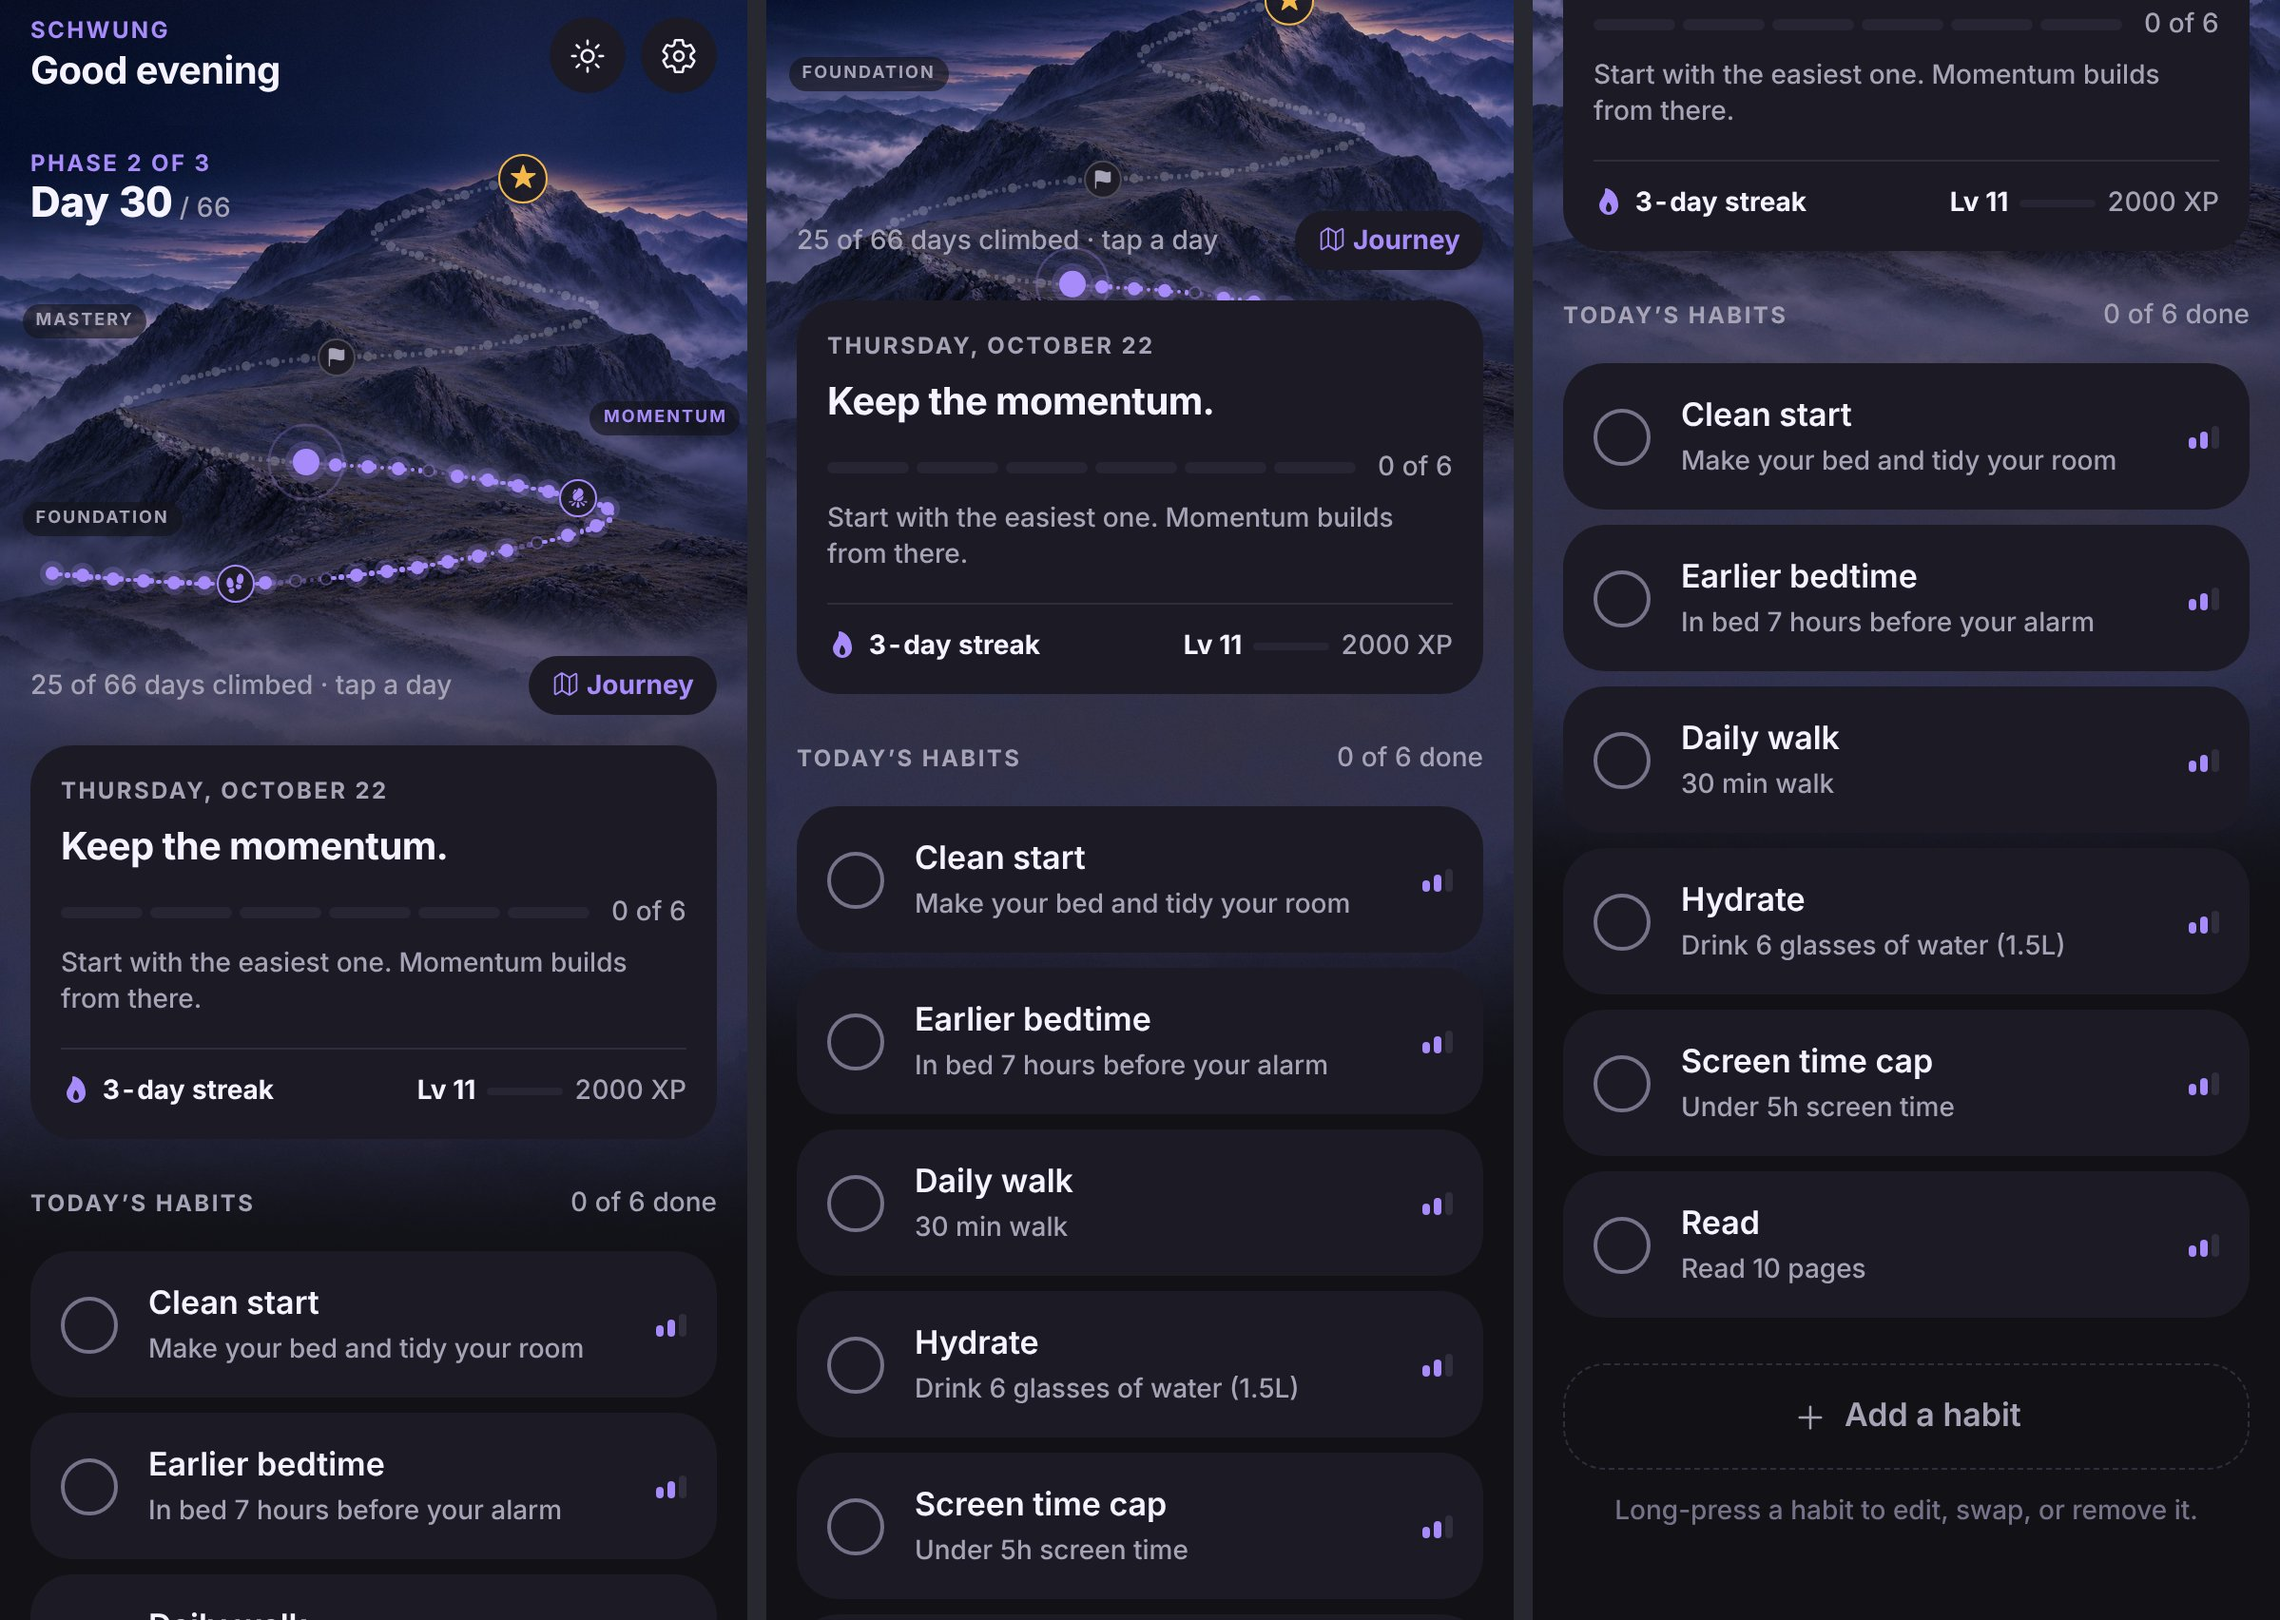
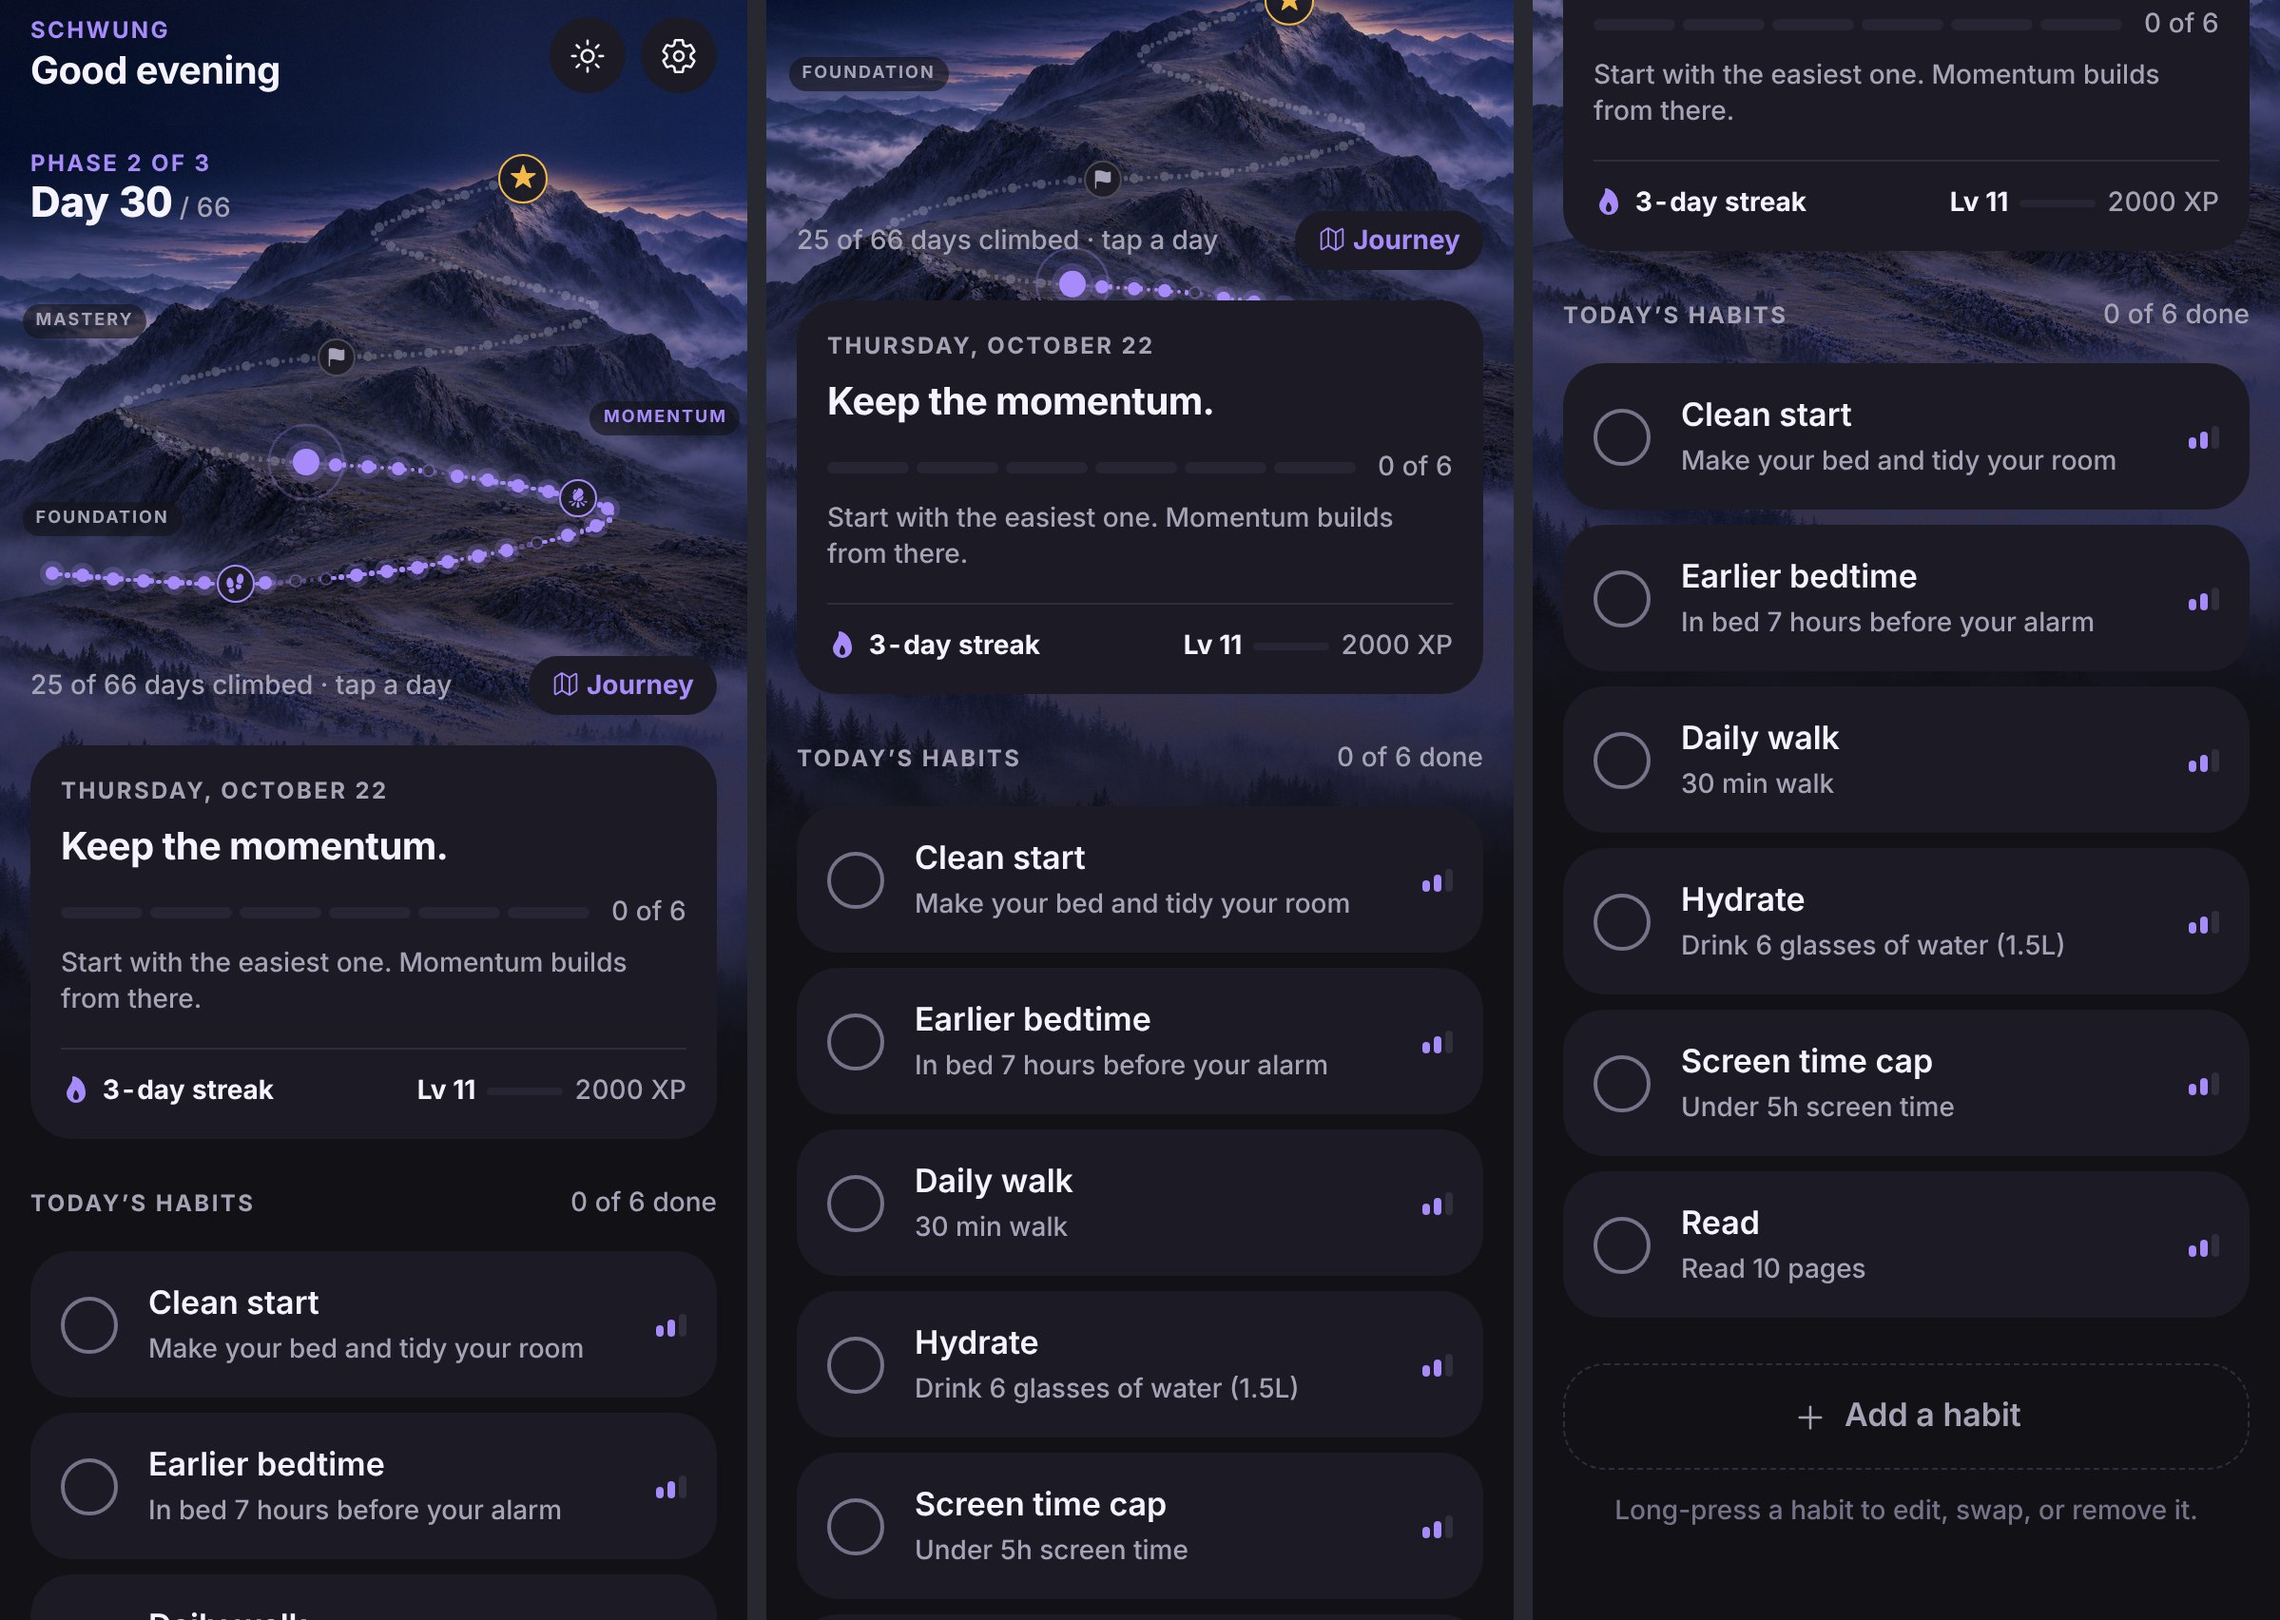
Add L1 dark v3 (slopes into pine forest), canvas previews and the piece 2 reference
Claude-Session: https://claude.ai/code/session_01TpqLTggzL92uJWvftw7JkZ

diff --git a/design/canvas/assemble_canvas.py b/design/canvas/assemble_canvas.py
@@ -5,7 +5,9 @@ Assembles the One Continuous Ascent canvas (1536 x 5120):
                   colour-matched to the painting's edge), with its soft mist band stretched taller
   then            a fade into the exact app background, which fills the rest
 
-    python3 design/canvas/assemble_canvas.py <world.jpg> <continuation> <out.png> [dark|light]
+    python3 design/canvas/assemble_canvas.py <world.jpg> <continuation> <out.png> [dark|light] [stretch]
+
+stretch (default 1 = off) lengthens the continuation's rows 300-800; only for soft mist, never for detail.
 """
 
 import sys
@@ -18,7 +20,7 @@ theme = sys.argv[4] if len(sys.argv) > 4 else 'dark'
 W, H = 1536, 5120
 PAINT_END = 1824  # last row of the painting inside the world image
 OVERLAP = 80  # rows of crossfade, below the lowest trail markers (painting rows 944-1024)
-STRETCH = (300, 800, 1.8)  # continuation rows a..b (soft mist) stretched by this factor
+STRETCH = (300, 800, float(sys.argv[5]) if len(sys.argv) > 5 else 1.0)  # rows a..b (soft mist only) x factor
 BG = np.array([17, 17, 22] if theme == 'dark' else [247, 246, 251], np.float32)
 MIST_MAX = 0.20 if theme == 'dark' else 0.86  # brightest the mist may be (dark) / darkest (light)
 rng = np.random.default_rng(5)
@@ -41,8 +43,9 @@ cont = cont + offset * ease
 
 # 2. Stretch the soft mist band (no detail there, so the stretch can't show).
 a, b, f = STRETCH
-mid = Image.fromarray(cont[a:b].clip(0, 255).astype(np.uint8)).resize((W, round((b - a) * f)), Image.BICUBIC)
-cont = np.concatenate([cont[:a], np.asarray(mid).astype(np.float32), cont[b:]])
+if f != 1.0:
+    mid = Image.fromarray(cont[a:b].clip(0, 255).astype(np.uint8)).resize((W, round((b - a) * f)), Image.BICUBIC)
+    cont = np.concatenate([cont[:a], np.asarray(mid).astype(np.float32), cont[b:]])
 
 # 3. Keep text over the mist readable: cap how bright (dark theme) or dark (light theme) the mist gets.
 L = lum(cont)
